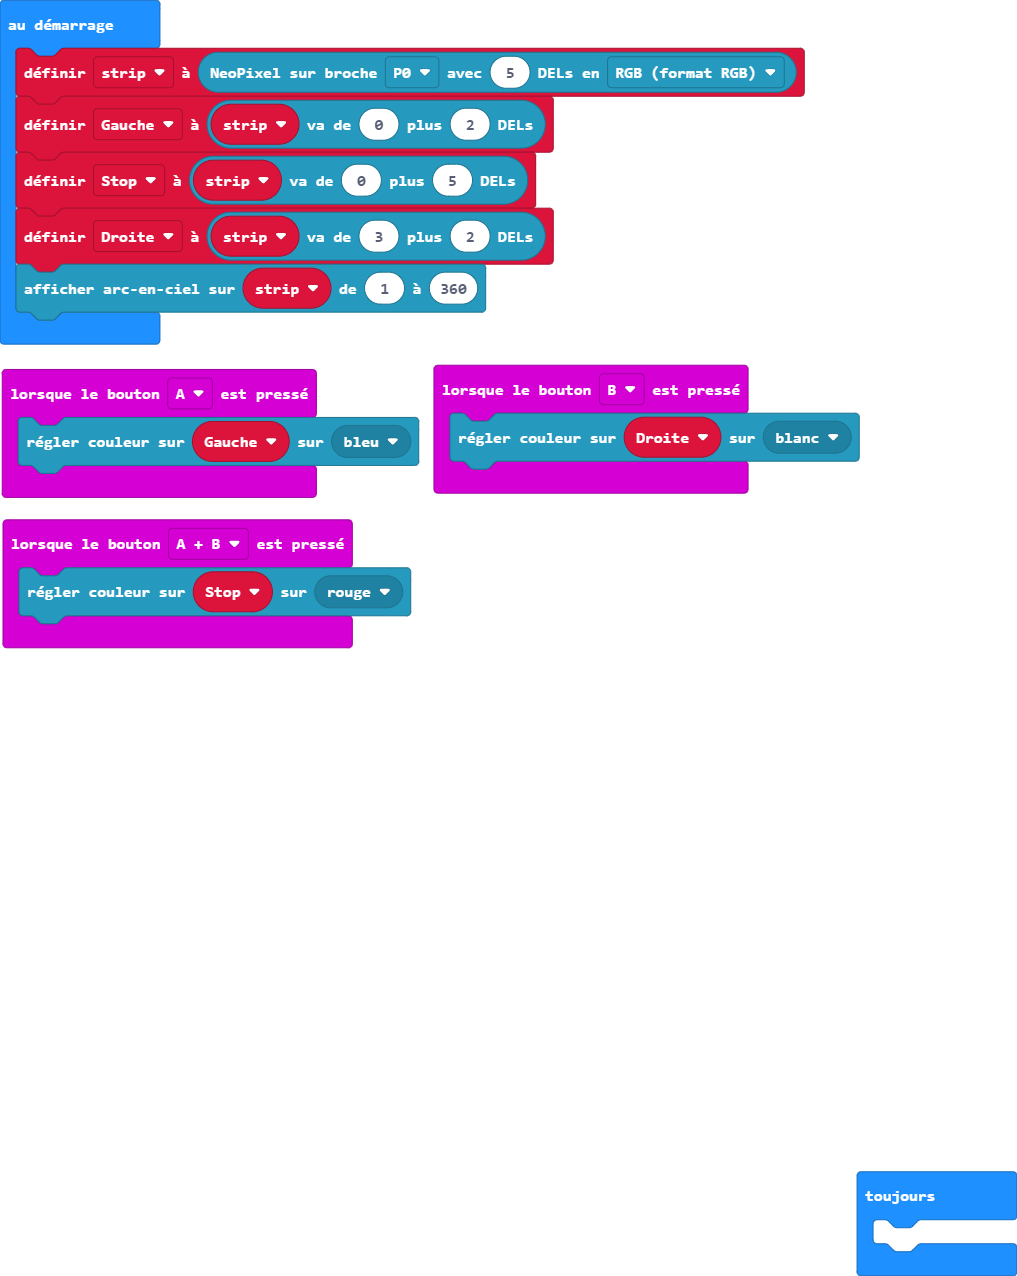
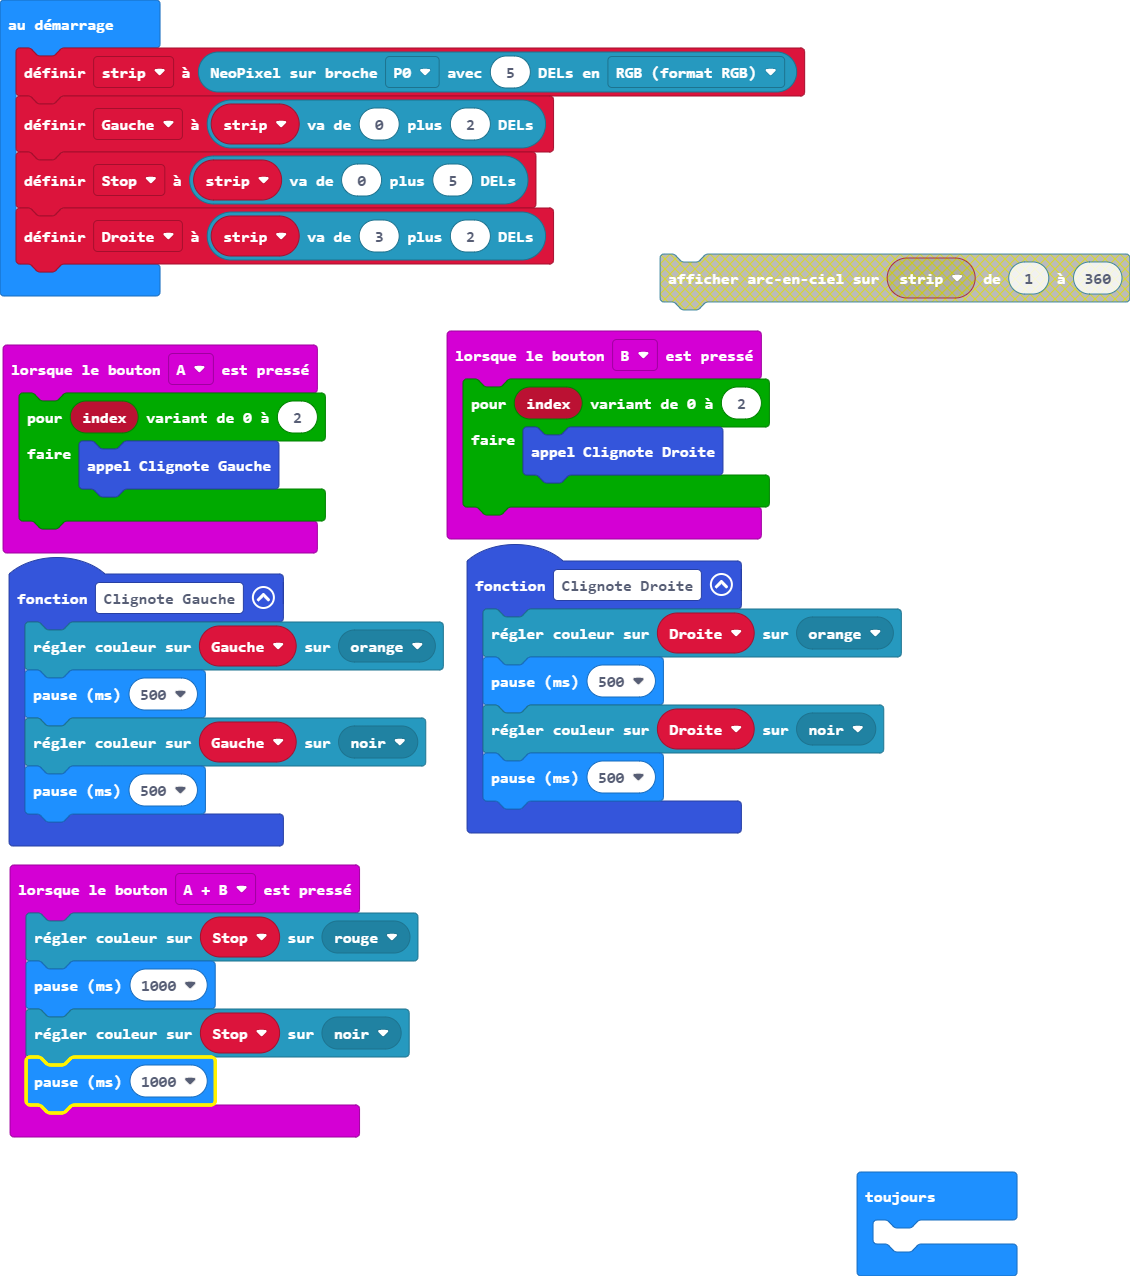
Mise à jour main.blocks, main.ts

diff --git a/main.ts b/main.ts
@@ -1,11 +1,30 @@
+function Clignote_Droite () {
+    Droite.showColor(neopixel.colors(NeoPixelColors.Orange))
+    basic.pause(500)
+    Droite.showColor(neopixel.colors(NeoPixelColors.Black))
+    basic.pause(500)
+}
 input.onButtonPressed(Button.A, function () {
-    Gauche.showColor(neopixel.colors(NeoPixelColors.Blue))
+    for (let index = 0; index <= 2; index++) {
+        Clignote_Gauche()
+    }
 })
 input.onButtonPressed(Button.AB, function () {
     Stop.showColor(neopixel.colors(NeoPixelColors.Red))
+    basic.pause(1000)
+    Stop.showColor(neopixel.colors(NeoPixelColors.Black))
+    basic.pause(1000)
 })
+function Clignote_Gauche () {
+    Gauche.showColor(neopixel.colors(NeoPixelColors.Orange))
+    basic.pause(500)
+    Gauche.showColor(neopixel.colors(NeoPixelColors.Black))
+    basic.pause(500)
+}
 input.onButtonPressed(Button.B, function () {
-    Droite.showColor(neopixel.colors(NeoPixelColors.White))
+    for (let index = 0; index <= 2; index++) {
+        Clignote_Droite()
+    }
 })
 let Droite: neopixel.Strip = null
 let Stop: neopixel.Strip = null
@@ -14,7 +33,6 @@ let strip = neopixel.create(DigitalPin.P0, 5, NeoPixelMode.RGB)
 Gauche = strip.range(0, 2)
 Stop = strip.range(0, 5)
 Droite = strip.range(3, 2)
-strip.showRainbow(1, 360)
 basic.forever(function () {
 	
 })
